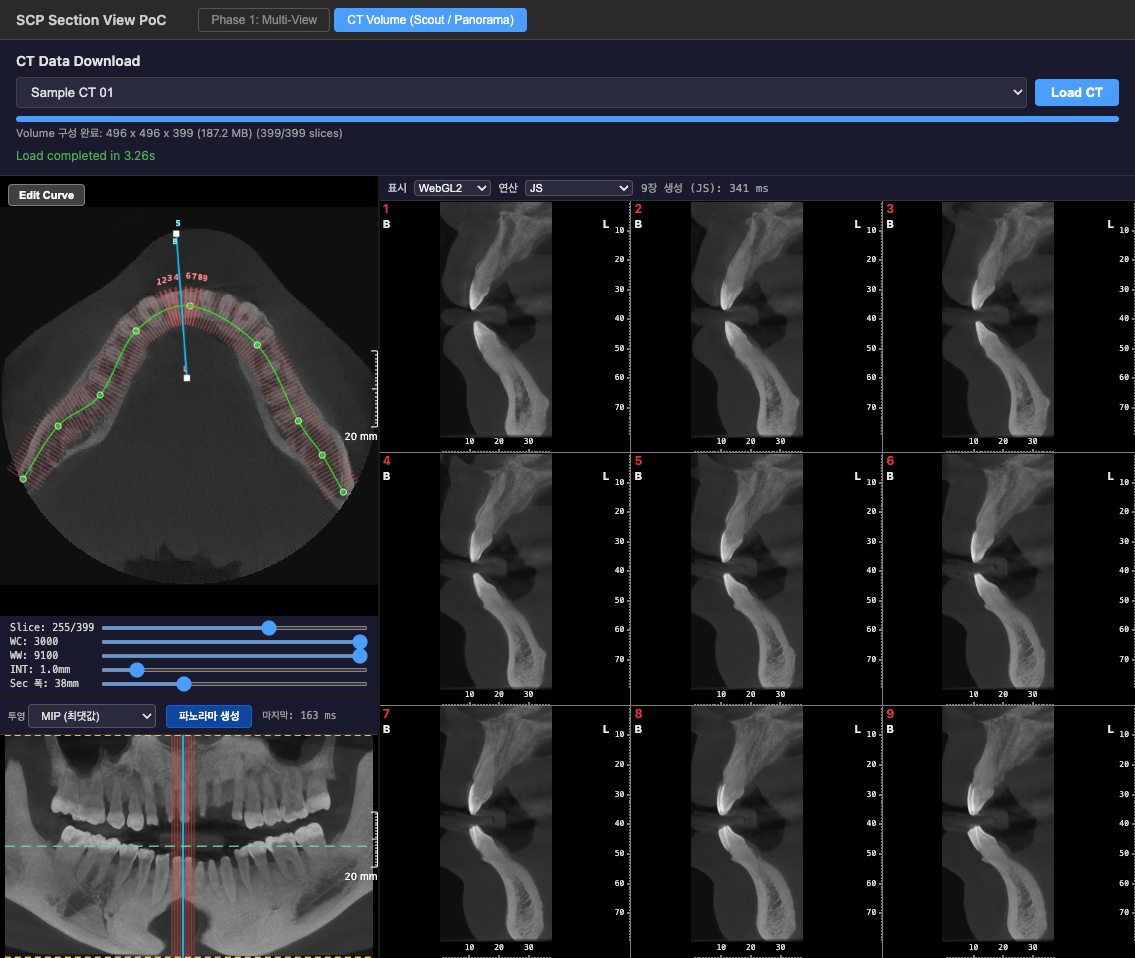
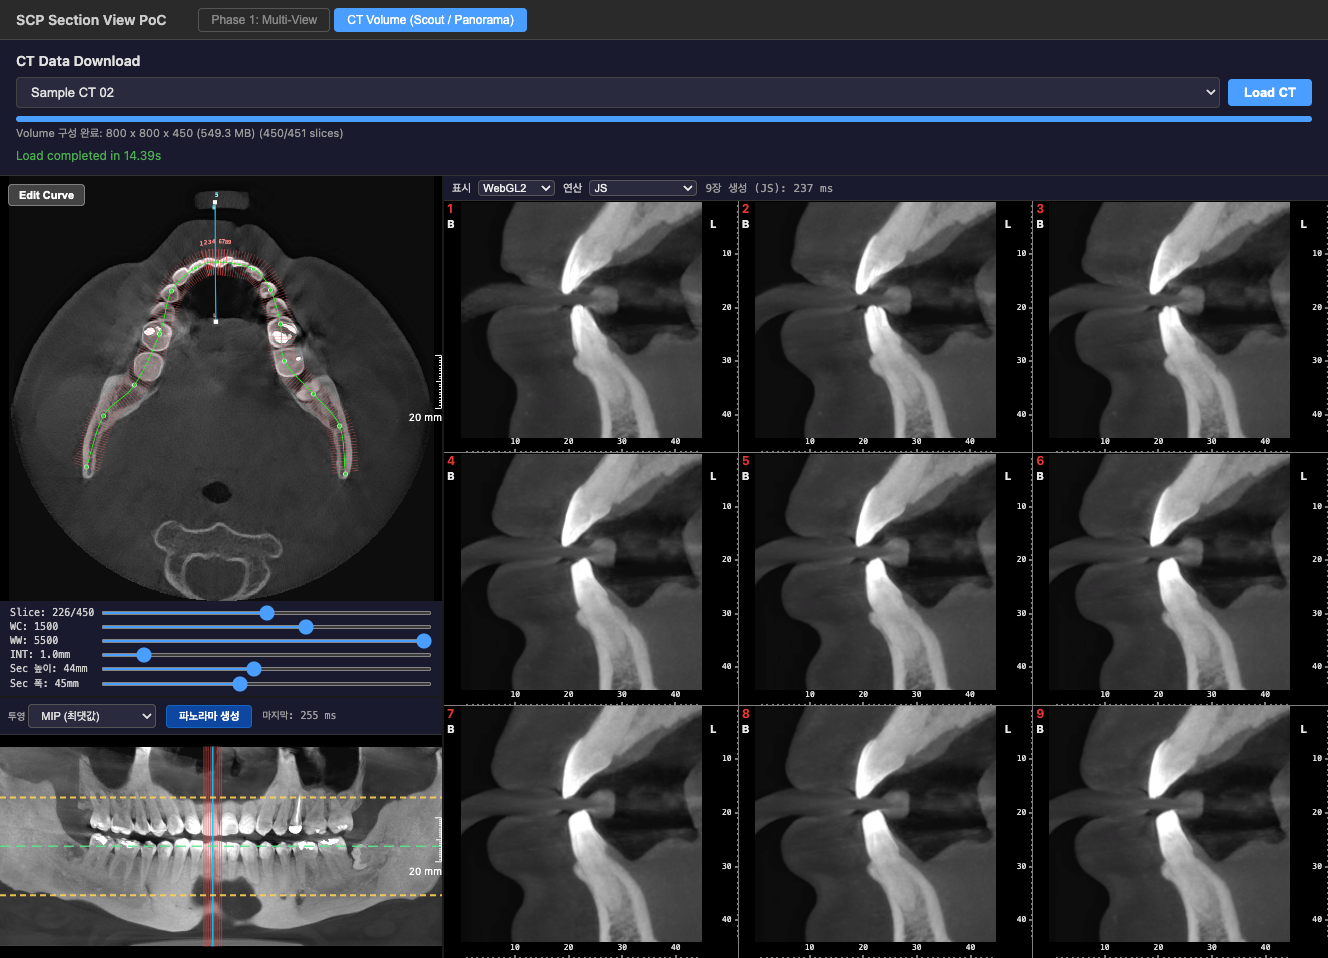
WebSectionView PoC 문서 업데이트: Phase 5의 Section View 관련 내용을 보강하고, Scout 하단의 Sec 폭 및 Sec 높이 슬라이더 기능을 추가하여 사용자 조작성을 향상시켰습니다. 또한, 비트맵과 눈금의 동기화 문제를 해결하여 시각적 일관성을 높였습니다.

diff --git a/docs/SCP Cloud Server 연구/뷰어 관련 연구/WebSectionView/Phase5/Phase5_SectionView_OnePager.md b/docs/SCP Cloud Server 연구/뷰어 관련 연구/WebSectionView/Phase5/Phase5_SectionView_OnePager.md
@@ -40,7 +40,7 @@ CleverOne Section 화면(참고 UI):
 | Scout 위 9 단면 표시 | 9개 빨간 짧은 선들이 곡선 위에 1~9 번호로 정렬 | 동일 의미. 번호는 **3×3 그리드 매핑**과 일치. |
 | Panorama 위 단면 위치 | 세로 9선 + 가로 2선(상·하 핸들) | 동일. 가운데 1선이 **현재 중심**, 좌우 4선이 ±k·INT. |
 | Panorama 우측 Ruler | 있음(mm 자) | **PoC 미구현**(시야 단순화). |
-| Section 칸 라벨 | B / L 등 방향, 1~9 번호, mm 자 | 1~9 번호·B/L 방향만. **눈금(ruler)·축선 미구현**(필요 시 캡션 한 줄). |
+| Section 칸 라벨 | B / L 등 방향, 1~9 번호, mm 자 | 1~9 번호·B/L·**가로·세로 mm 눈금**(CleverOne에 가깝게 contain·물리 스케일 정합). |
 | 위치 변경 | Scout/Panorama 핸들 드래그 | 동일. 키보드 좌·우 키로 INT 단위 미세 이동 가능(선택 사항). |
 
 ---
@@ -73,6 +73,7 @@ CleverOne Section 화면(참고 UI):
 - Panorama 좌·우 끝에 **수평 핸들 2개**(상·하). 드래그로 mm 단위 조절.
 - 초기값: 볼륨 z 범위(`0..nz·spacing[2]`) 안에서 자동 추정(예: 중심 ±50 mm) 후 사용자가 조정.
 - Section의 `v` 범위가 곧 `[topMm, bottomMm]`. 동시에 **Panorama의 보이는 영역**도 동일 범위로 자르거나 두 핸들 사이 영역을 강조한다(둘 중 단순한 쪽 채택, 결과 문서에 표기).
+- **Scout 하단 「Sec 높이」 슬라이더**(구현): Z 구간 **길이(mm)** = `bottomMm - topMm`만 조절하고, **현재 구간의 z 중점**은 유지한 채 상·하 경계를 벌리거나 줄인다. 볼륨 Z 물리 길이(`zExtent`) 안으로 클램프. Panorama Top/Bottom 핸들과 **같은 `topMm`/`bottomMm`** 을 공유한다.
 
 ### 슬랩(법선 방향) 두께
 
@@ -87,6 +88,8 @@ CleverOne Section 화면(참고 UI):
 - 곡선 위 **클릭** 또는 기존 곡선 영역에서 **드래그** 시 가장 가까운 호장 위치를 `sectionCenterMm`로 설정.
 - Phase 3의 “수직 짧은 빨간 선”은 그대로 두되, **현재 9장에 해당하는 9개 선**은 **굵게/번호와 함께** 강조한다.
 - Edit Curve 모드일 때는 위치 선택을 **막는다**(드래그 충돌 방지). 둘 중 한 가지 모드만.
+- **Sec 폭(mm)**: 하단 슬라이더로 `sectionWidthMm` 조절(코어 기본값은 CleverOne에 맞춰 좁은 폭부터). **드래그 중에는 표시값만 갱신**하고, **포인터 업·취소·blur**에서 상태를 커밋해 9장 재생성이 연쇄 호출되지 않도록 한다.
+- **Sec 높이(mm)**: `topMm`/`bottomMm` 구간 길이만 바꾸는 슬라이더(중점 유지·`zExtent` 클램프). **커밋 시점은 Sec 폭과 동일**(포인터 업·blur).
 
 ### Panorama View (좌하)
 
@@ -94,13 +97,13 @@ CleverOne Section 화면(참고 UI):
 - 세로선 9개 표시. **가운데(굵은) 선**을 좌우로 드래그하면 9개가 함께 이동(`sectionCenterMm` 변경).
 - 좌우 4개의 보조선은 표시만(드래그하면 일부 PoC만 가운데 선과 동일하게 동작; 1차에서는 **표시만**).
 - 파노라마 영역 우측 **Ruler 미표시**.
-- 기존 Phase 4 툴바는 그대로(투영·생성·Pan WC/WW).
+- 기존 Phase 4 툴바는 그대로(투영·생성). **WC/WW는 Scout와 공유**(`useScoutAxialUi`).
 
 ### Section View (우, 3×3)
 
 - 칸 좌상단 작은 **번호 1~9**(좌→우, 위→아래 = `s_0..s_8`).
 - 좌/우 가장자리에 작은 **B / L** 텍스트(법선 부호 규약에 따른 buccal/lingual 가이드).
-- **눈금(ruler)·축선은 PoC에서 미구현**.
+- 타일 **가로·세로 mm 눈금**: `sectionWidthMm` 및 `[topMm, bottomMm]`과 출력 `nU`×`nV`에 맞춰 스케일한다. **화면에 올라간 9장 `ImageData`가 샘플링된 mm**와 눈금 물리 스케일을 짝지어 두어, 폭·높이 커밋 직후 **새 비트맵이 오기 전**에 이전 이미지가 늘어나 보이는 현상을 막는다(`SectionViewer`에서 마지막 성공 `apply` 기준 mm를 `tileMmMetrics`에 사용).
 
 ### Section View 렌더·연산 토글 (PoC 핵심 검증)
 
@@ -117,6 +120,7 @@ CleverOne Section 화면(참고 UI):
 
 - **별도 “Section 생성” 버튼은 두지 않는다.** 다음 조건 변화에 즉시(또는 짧은 스로틀 후) 9장을 다시 만든다.
   - `sectionCenterMm`, `INT`, `topMm`/`bottomMm`, `sectionWidthMm`, **WC/WW**, **곡선**, **현재 곡선 슬라이스 인덱스**, 투영·슬랩 옵션, **표시(WebGL2/Canvas2D)**, **연산(JS / WASM 복사 / WASM 상주)** 토글.
+- **Scout의 Sec 폭·Sec 높이 슬라이더**는 값이 매 프레임 바뀌어도 **`sectionWidthMm` / `topMm`·`bottomMm`은 커밋(포인터 업 등) 시에만 반영**한다. 그 외 입력은 기존 스로틀 정책을 따른다.
 - 마우스 드래그 같은 **연속 입력**은 약 **1 frame 스로틀(또는 60 ms 디바운스)** 정도로 제한. 일정 ms 안에 끝나면 그대로 매 프레임 재계산.
 - **목표는 끊김 없는 갱신**이므로 “명시적 버튼”은 본 PoC의 검증 의도와 반대다.
 
@@ -169,6 +173,8 @@ CleverOne Section 화면(참고 UI):
 | 삼선형 보간 | `packages/core/src/panorama/panorama.ts` — `sampleTrilinear` |
 | WASM 핫패스 | `packages/section-wasm/assembly/index.ts` — `sampleTrilinear`(동일 수식), `sectionGenerate9` |
 | WASM 글루 | `packages/section-wasm/src/index.ts` |
+| Scout 슬라이더(Sec 폭·높이) | `packages/components/src/ScoutView.tsx` |
+| 9장 생성·비트맵–mm 동기 `tileMmMetrics` | `packages/components/src/SectionViewer.tsx` |
 
 ### 다이어그램 (Mermaid)
 
@@ -348,7 +354,7 @@ flowchart TB
 
 1. 본 OnePager + Phase 5 결과 md(구현 후)
 2. `packages/core` 내 `section/` 모듈, **`packages/section-wasm`**, `useScoutAxialUi` 확장(`sectionComputeMode`, `SECTION_COMPUTE_INCLUDE_LEGACY_WASM_COPY`)
-3. `ScoutView` 9장 강조 표시, `PanoramaView` 세로 9선 + Top/Bottom 핸들, `SectionGrid` Canvas 2D / WebGL2·**연산(JS·WASM 복사·WASM 상주)** 토글
+3. `ScoutView` 9장 강조 표시·**Sec 폭·Sec 높이 슬라이더**, `PanoramaView` 세로 9선 + Top/Bottom 핸들, `SectionGrid` Canvas 2D / WebGL2·**연산(JS·WASM 복사·WASM 상주)** 토글
 4. 비교 결과(평균 FPS, 95퍼센타일 ms, **JS / WASM(복사) / WASM(상주)** 9장 생성 ms, 시각 비교 캡처)
 
 ### 참고 (용어)
